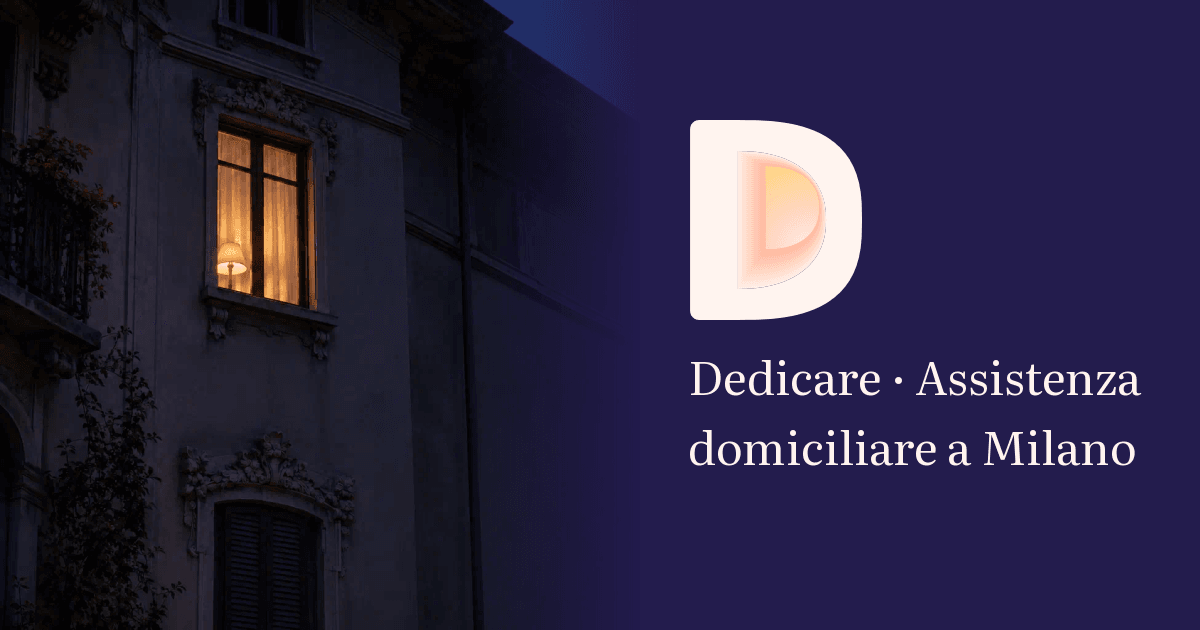
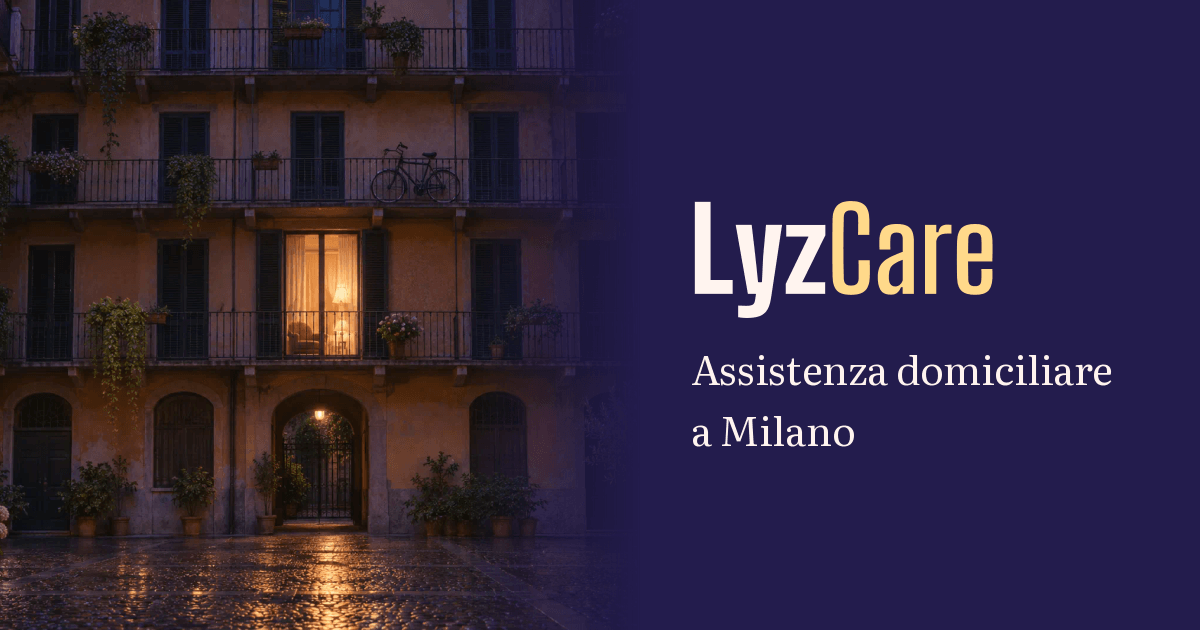
feat(marchio): il sito diventa LyzCare (nome di lavoro), la società resta Dedicare Solutions S.r.l.s.
- Testi visibili IT/EN, titoli, meta, Open Graph (site_name), manifest: «LyzCare» al posto di «Dedicare» e «Dedicare Solutions».
- schema.org: name e brand LyzCare, legalName Dedicare Solutions S.r.l.s.
- Footer: «LyzCare è un servizio di Dedicare Solutions S.r.l.s.» / «LyzCare is a service of Dedicare Solutions S.r.l.s.» sopra la ragione sociale.
- Testi legali, ragione sociale, dominio, canonical, email, endpoint dei moduli e CSP invariati.
- Logo provvisorio: scritta LyzCare in Big Shoulders (Lyz nebbia 800, Care oro 500) al posto del simbolo «La soglia».
- Favicon e icone provvisorie «Ly» su indaco, og-image con la scritta LyzCare e la prima scena del film;
  contorni delle lettere tracciati da Big Shoulders (OFL) in scripts/assets/lyzcare-glifi.json.

diff --git a/src/components/brand/Logo.tsx b/src/components/brand/Logo.tsx
@@ -1,53 +1,23 @@
-// LOGO PROVVISORIO: simbolo "La soglia" in attesa della scelta definitiva. Per sostituirlo basta cambiare questo file.
-import { useId } from "react"
-import geo from "./soglia-geometria.json"
+// LOGO PROVVISORIO: scritta «LyzCare» in Big Shoulders, in attesa della scelta del logo definitivo. Per sostituirlo basta cambiare questo file.
 import { cn } from "@/lib/cn"
 
 export type LogoPhase = "live" | "notte" | "alba" | "mattino" | "tramonto"
 
-/** Percentuale di `--d-in-bottom` per ciascuna delle 18 pareti, dal fronte al fondo. */
-const P = Array.from({ length: 18 }, (_, i) => Math.round(8 + 92 * Math.pow(i / 17, 0.9)))
-
 interface LogoProps {
   phase: LogoPhase
-  /** Altezza del simbolo in px (da 1024 px in su). */
+  /** Altezza della scritta in px (da 1024 px in su). */
   size: number
   /** Altezza sotto 1024 px, se diversa. */
   sizeSm?: number
-  withWordmark?: boolean
   className?: string
 }
 
-export function Logo({ phase, size, sizeSm, withWordmark = true, className }: LogoProps) {
-  const uid = useId().replace(/:/g, "")
+export function Logo({ phase, size, sizeSm, className }: LogoProps) {
   return (
     <span className={cn("logo", className)} data-phase={phase} style={{ "--logo-h-lg": `${size}px`, "--logo-h-sm": `${sizeSm ?? size}px` } as React.CSSProperties}>
-      <svg viewBox={geo.viewBox} width={(size * 330) / 384} height={size} style={{ width: "calc(var(--logo-h) * 330 / 384)", height: "var(--logo-h)" }} aria-hidden="true" focusable="false">
-        <defs>
-          <clipPath id={`${uid}-c`}>
-            <path d={geo.inner} />
-          </clipPath>
-          <linearGradient id={`${uid}-sky`} gradientUnits="userSpaceOnUse" x1="0" y1={geo.backY[0]} x2="0" y2={geo.backY[1]}>
-            <stop offset="0" style={{ stopColor: "var(--d-in-top)" }} />
-            <stop offset="1" style={{ stopColor: "var(--d-in-bottom)" }} />
-          </linearGradient>
-          <radialGradient id={`${uid}-glow`} gradientUnits="userSpaceOnUse" cx={geo.glow[0]} cy={geo.glow[1]} r={geo.glow[2]}>
-            <stop offset="0" stopColor="#FFF4EF" stopOpacity=".9" />
-            <stop offset="1" stopColor="#FFF4EF" stopOpacity="0" />
-          </radialGradient>
-        </defs>
-        <path d={geo.body} fillRule="evenodd" style={{ fill: "var(--d-body)" }} />
-        <g clipPath={`url(#${uid}-c)`}>
-          <g className="logo-inner">
-            {geo.walls.map((d, i) => (
-              <path key={i} d={d} style={{ fill: `color-mix(in oklab, var(--d-in-bottom) ${P[i]}%, var(--d-body))` }} />
-            ))}
-            <path d={geo.back} fill={`url(#${uid}-sky)`} />
-            <path d={geo.back} fill={`url(#${uid}-glow)`} />
-          </g>
-        </g>
-      </svg>
-      {withWordmark && <span className="logo-word">Dedicare</span>}
+      <span className="logo-word" translate="no">
+        Lyz<span className="logo-word-accent">Care</span>
+      </span>
     </span>
   )
 }

diff --git a/src/components/brand/Logo.test.tsx b/src/components/brand/Logo.test.tsx
@@ -5,40 +5,18 @@ import { Logo, type LogoPhase } from "./Logo"
 const PHASES: LogoPhase[] = ["live", "notte", "alba", "mattino", "tramonto"]
 
 describe("Logo", () => {
-  it.each(PHASES)("si disegna con la fase %s: un solo svg, 18 pareti, wordmark in testo", (phase) => {
+  it.each(PHASES)("si disegna con la fase %s: scritta LyzCare in testo, senza immagini", (phase) => {
     const { container } = render(<Logo phase={phase} size={36} />)
-    expect(container.querySelectorAll("svg")).toHaveLength(1)
-    const inner = container.querySelector(".logo-inner")!
-    const walls = [...inner.querySelectorAll("path")].filter((p) => p.getAttribute("style")?.includes("color-mix"))
-    expect(walls).toHaveLength(18)
     expect(container.querySelector(".logo")).toHaveAttribute("data-phase", phase)
-    expect(container.querySelector(".logo-word")).toHaveTextContent("Dedicare")
-    expect(container.querySelector("svg")).toHaveAttribute("aria-hidden", "true")
+    expect(container.querySelector(".logo-word")).toHaveTextContent(/^LyzCare$/)
+    expect(container.querySelector(".logo-word-accent")).toHaveTextContent("Care")
+    expect(container.querySelector("svg")).toBeNull()
   })
 
-  it("due istanze hanno id diversi", () => {
-    const { container } = render(
-      <>
-        <Logo phase="notte" size={48} />
-        <Logo phase="mattino" size={48} />
-      </>,
-    )
-    const ids = [...container.querySelectorAll("[id]")].map((e) => e.id)
-    expect(ids.length).toBeGreaterThan(0)
-    expect(new Set(ids).size).toBe(ids.length)
-  })
-
-  it("senza wordmark mostra solo il simbolo", () => {
-    const { container } = render(<Logo phase="live" size={30} withWordmark={false} />)
-    expect(container.querySelector(".logo-word")).toBeNull()
-  })
-
-  it("le pareti vanno dal 8% al 100% di mescolanza", () => {
-    const { container } = render(<Logo phase="mattino" size={36} />)
-    const styles = [...container.querySelectorAll(".logo-inner path")]
-      .map((p) => p.getAttribute("style") ?? "")
-      .filter((s) => s.includes("color-mix"))
-    expect(styles[0]).toContain("8%")
-    expect(styles[17]).toContain("100%")
+  it("passa le due altezze come variabili CSS", () => {
+    const { container } = render(<Logo phase="notte" size={34} sizeSm={30} />)
+    const style = container.querySelector(".logo")!.getAttribute("style") ?? ""
+    expect(style).toContain("--logo-h-lg: 34px")
+    expect(style).toContain("--logo-h-sm: 30px")
   })
 })

diff --git a/src/lib/head.ts b/src/lib/head.ts
@@ -9,9 +9,9 @@ const jsonScript = (data: unknown) =>
   `<script type="application/ld+json">${JSON.stringify(data).replace(/</g, "\\u003c")}</script>`
 
 const LEGAL_TITLES: Record<string, string> = {
-  privacy: "Privacy Policy — Dedicare Solutions",
-  cookie: "Cookie Policy — Dedicare Solutions",
-  "note-legali": "Note Legali — Dedicare Solutions",
+  privacy: "Privacy Policy — LyzCare",
+  cookie: "Cookie Policy — LyzCare",
+  "note-legali": "Note Legali — LyzCare",
 }
 
 const LEGAL_DESC_KEYS: Record<string, string> = {
@@ -24,8 +24,9 @@ const LOCAL_BUSINESS = {
   "@context": "https://schema.org",
   "@type": "LocalBusiness",
   "@id": "https://dedicaresolutions.it/#organization",
-  name: "Dedicare Solutions S.r.l.s.",
-  alternateName: "Dedicare Solutions",
+  name: "LyzCare",
+  legalName: "Dedicare Solutions S.r.l.s.",
+  brand: { "@type": "Brand", name: "LyzCare" },
   description: "Assistenza domiciliare a Milano e hinterland: operatori OSS, turni anche 24 ore su 24 e notti, accompagnamento a visite e terapie.",
   url: "https://dedicaresolutions.it/",
   telephone: "+39 388 253 6992",
@@ -105,7 +106,7 @@ export function buildHead({ route, t, fontUrls }: HeadOptions): string {
     lines.push(`<meta property="og:image:height" content="630">`)
     lines.push(`<meta property="og:locale" content="${esc(t("meta.og_locale"))}">`)
     lines.push(`<meta property="og:locale:alternate" content="${otherLocale}">`)
-    lines.push(`<meta property="og:site_name" content="Dedicare Solutions S.r.l.s.">`)
+    lines.push(`<meta property="og:site_name" content="LyzCare">`)
     lines.push(`<meta name="twitter:card" content="summary_large_image">`)
     lines.push(`<meta name="twitter:title" content="${esc(title)}">`)
     lines.push(`<meta name="twitter:description" content="${esc(description)}">`)

diff --git a/src/components/shell/shell.test.tsx b/src/components/shell/shell.test.tsx
@@ -8,7 +8,7 @@ import { setHour } from "@/film/hourRoll"
 describe("guscio fisso", () => {
   it("l'intestazione ha logo, ora della scena, selettore e Chiama; la lingua corrente è aria-current", () => {
     const { container } = renderWithI18n(<Header />)
-    expect(screen.getByRole("link", { name: "Chiama Dedicare Solutions al +39 388 253 6992" })).toHaveAttribute("href", "tel:+393882536992")
+    expect(screen.getByRole("link", { name: "Chiama LyzCare al +39 388 253 6992" })).toHaveAttribute("href", "tel:+393882536992")
     expect(container.querySelector(".pill")).not.toBeNull()
     expect(container.querySelector("[data-film-hour]")).toHaveTextContent("22:00")
     expect(container.querySelector('.lang-switch a[lang="it"]')).toHaveAttribute("aria-current", "page")
@@ -37,7 +37,7 @@ describe("guscio fisso", () => {
     const wa = screen.getByRole("link", { name: /WhatsApp/ })
     expect(wa.getAttribute("href")).toBe(
       "https://wa.me/393882536992?text=" +
-        encodeURIComponent("Buongiorno, vorrei informazioni sui servizi di assistenza domiciliare di Dedicare Solutions."),
+        encodeURIComponent("Buongiorno, vorrei informazioni sui servizi di assistenza domiciliare di LyzCare."),
     )
     expect(wa).toHaveAttribute("rel", "noopener noreferrer")
   })

diff --git a/src/styles/app.css b/src/styles/app.css
@@ -16,43 +16,35 @@
     outline-color: #231c4d;
   }
 
-  /* ---- Logo ---- */
+  /* ---- Logo (provvisorio: scritta «LyzCare») ---- */
   .logo {
     --logo-h: var(--logo-h-sm);
-    --d-body: #fff4ef;
-    --d-in-top: #ffd98a;
-    --d-in-bottom: #ffb59a;
     --d-word: #fff4ef;
+    --d-accent: #ffd98a;
     display: inline-flex;
     align-items: center;
-    gap: calc(var(--logo-h) * 0.28);
   }
   @media (min-width: 1024px) {
     .logo {
       --logo-h: var(--logo-h-lg);
     }
   }
-  .logo > svg {
-    flex: none;
-  }
   .logo-word {
     font-family: var(--font-title);
-    font-weight: 700;
-    text-transform: uppercase;
-    font-size: calc(var(--logo-h) * 0.78);
+    font-weight: 800;
+    font-size: var(--logo-h);
     line-height: 1;
-    letter-spacing: 0.06em;
+    letter-spacing: 0.01em;
     color: var(--d-word);
+    white-space: nowrap;
+  }
+  .logo-word-accent {
+    font-weight: 500;
+    color: var(--d-accent);
   }
   .logo[data-phase="mattino"] {
-    --d-body: #231c4d;
-    --d-in-top: #ffd98a;
-    --d-in-bottom: #fff4ef;
     --d-word: #231c4d;
-  }
-  .logo-inner {
-    transform-box: view-box;
-    transform-origin: 90.2px 192px;
+    --d-accent: #5a5482;
   }
 
   /* ---- Pillola in alto (vetro) ---- */

diff --git a/public/informativa-candidati.html b/public/informativa-candidati.html
@@ -4,7 +4,7 @@
 <meta charset="UTF-8" />
 <meta http-equiv="Content-Security-Policy" content="default-src 'none'; style-src 'unsafe-inline'; img-src 'self'; base-uri 'none'; form-action 'none'">
 <meta name="viewport" content="width=device-width, initial-scale=1.0" />
-<title>Informativa privacy per i candidati — Dedicare Solutions</title>
+<title>Informativa privacy per i candidati — LyzCare</title>
 <meta name="description" content="Informativa privacy ex art. 13 GDPR e art. 111-bis del D.Lgs. 196/2003 per chi invia il curriculum a Dedicare Solutions tramite il modulo «Lavora con noi» o via e-mail." />
 <link rel="canonical" href="https://dedicaresolutions.it/informativa-candidati.html" />
 <meta name="robots" content="index,follow">

diff --git a/src/components/shell/Footer.tsx b/src/components/shell/Footer.tsx
@@ -41,7 +41,10 @@ export function Footer() {
           </nav>
           <LangSwitch place="footer" />
         </div>
-        <p className="footer-copyright">{t("footer.copyright", { year: __BUILD_YEAR__ })}</p>
+        <p className="footer-copyright">
+          <span className="footer-servizio">{t("footer.servizio")}</span>
+          {t("footer.copyright", { year: __BUILD_YEAR__ })}
+        </p>
       </div>
     </footer>
   )

diff --git a/src/components/shell/Footer.css b/src/components/shell/Footer.css
@@ -77,6 +77,11 @@
     min-width: 0;
     padding-inline: 6px;
   }
+  .footer-servizio {
+    display: block;
+    margin-bottom: 8px;
+    font-weight: 600;
+  }
   .footer-copyright {
     margin: 0;
     padding-top: 24px;
